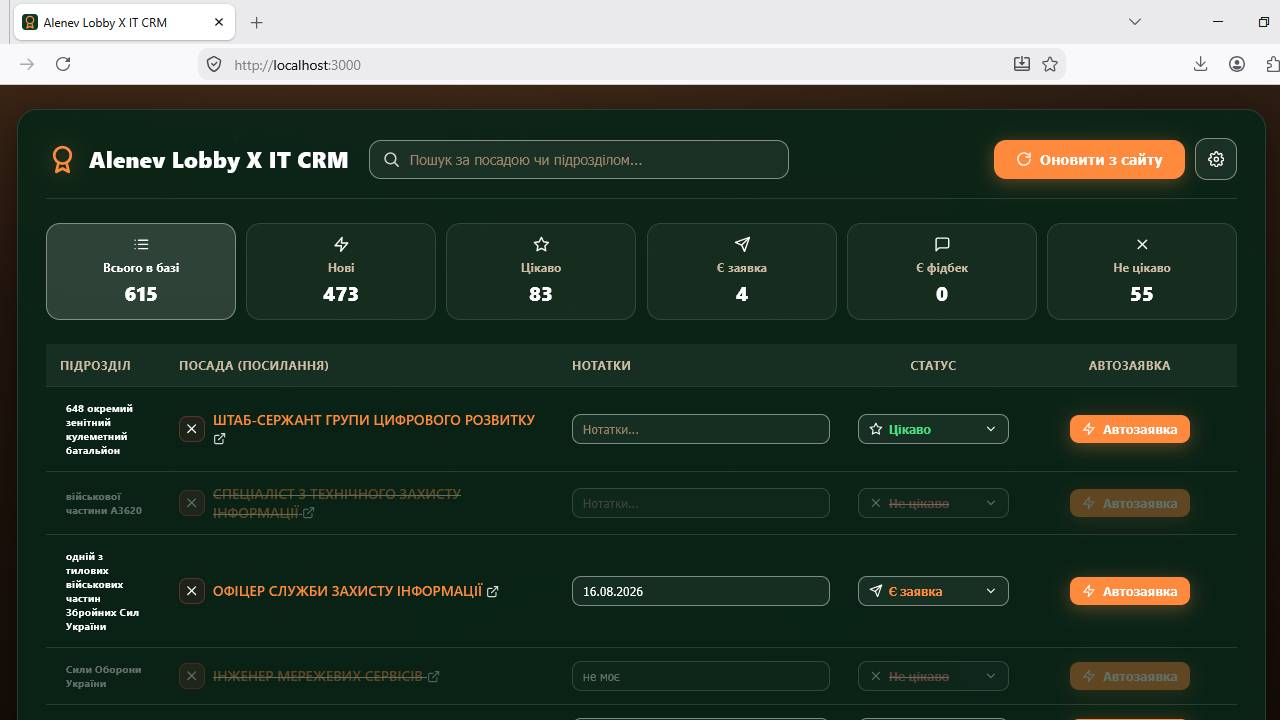
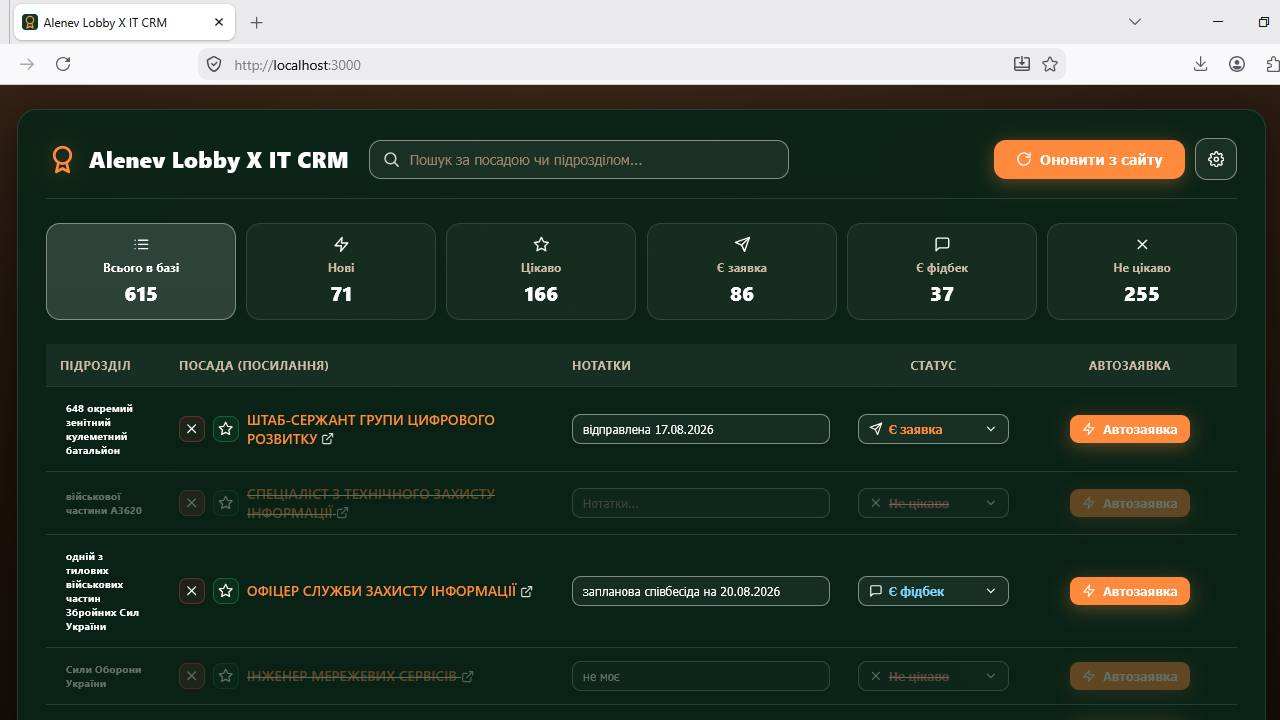
update

diff --git a/solver.js b/solver.js
@@ -90,6 +90,16 @@ async function solveCaptcha(page, { maxAttempts = 5, modelPath, log } = {}) {
         return false;
     }
 
+    // Helper: detect garbled / anti-bot challenge content
+    function isGarbledText(text) {
+        if (!text) return false;
+        const stripped = text.replace(/\s/g, '');
+        if (stripped.length === 0) return false;
+        // Too many non-alpha symbols suggests anti-bot gibberish
+        const nonAlpha = stripped.replace(/[a-zA-Z0-9]/g, '').length;
+        return nonAlpha / stripped.length > 0.4;
+    }
+
     // 1) List all frames for debug
     const allFrames = page.frames().map(f => f.url());
     _log(`reCAPTCHA: знайдено ${allFrames.length} frames`);
@@ -162,9 +172,21 @@ async function solveCaptcha(page, { maxAttempts = 5, modelPath, log } = {}) {
                 break;
             }
             _log('reCAPTCHA: audio button натиснуто (JS)');
-            await delay(3000);
+            await delay(5000);
         } else {
             _log('reCAPTCHA: вже в audio mode');
+        }
+
+        // Detect garbled / anti-bot challenge text in the bframe
+        const bframeText = await bframe.evaluate(() => {
+            return document.body ? document.body.innerText : '';
+        }).catch(() => '');
+        if (isGarbledText(bframeText)) {
+            _log(`reCAPTCHA: виявлено anti-bot контент, чекаю 15с...`);
+            await delay(15000);
+            try { await bframe.click('#recaptcha-reload-button'); } catch (e) { /* ignore */ }
+            await delay(5000);
+            continue;
         }
 
         // Find audio element and get src
@@ -250,7 +272,15 @@ async function solveCaptcha(page, { maxAttempts = 5, modelPath, log } = {}) {
         if (!answer || answer.length < 1) {
             _log('reCAPTCHA: відповідь занадто коротка');
             try { await bframe.click('#recaptcha-reload-button'); } catch (e) { /* ignore */ }
-            await delay(3000);
+            await delay(5000);
+            continue;
+        }
+
+        // Skip clearly garbled transcriptions (likely anti-bot audio)
+        if (isGarbledText(answer)) {
+            _log('reCAPTCHA: транскрипція виглядає як anti-bot шум, пропускаю...');
+            try { await bframe.click('#recaptcha-reload-button'); } catch (e) { /* ignore */ }
+            await delay(8000);
             continue;
         }
 
@@ -292,7 +322,7 @@ async function solveCaptcha(page, { maxAttempts = 5, modelPath, log } = {}) {
 
         _log('reCAPTCHA: не пройшло, новий виклик...');
         try { await bframe.click('#recaptcha-reload-button'); } catch (e) { /* ignore */ }
-        await delay(3000);
+        await delay(5000);
     }
 
     _log(`reCAPTCHA: вичерпано ${maxAttempts} спроб`);

diff --git a/client/src/components/VacancyRow.jsx b/client/src/components/VacancyRow.jsx
@@ -1,6 +1,6 @@
 import React, { useState } from 'react';
 import StatusSelect from './StatusSelect.jsx';
-import { ExternalIcon, XIcon, ZapIcon } from './Icons.jsx';
+import { ExternalIcon, XIcon, ZapIcon, StarIcon } from './Icons.jsx';
 import { updateNotes, updateStatus, runAutofill } from '../api.js';
 
 export default function VacancyRow({ vac, updateVacancy }) {
@@ -69,6 +69,14 @@ export default function VacancyRow({ vac, updateVacancy }) {
                         title={isIgnored ? 'Повернути у статус «Нова»' : 'Позначити як «Не цікаво»'}
                     >
                         <XIcon className="icon" />
+                    </button>
+                    <button
+                        type="button"
+                        className={`star-btn${vac.status === 'interested' ? ' active' : ''}`}
+                        onClick={() => handleStatus(vac.status === 'interested' ? 'new' : 'interested')}
+                        title={vac.status === 'interested' ? 'Повернути у статус «Нова»' : 'Позначити як «Цікаво»'}
+                    >
+                        <StarIcon className="icon" />
                     </button>
                     <a
                         className="vac-link"

diff --git a/client/src/App.jsx b/client/src/App.jsx
@@ -38,12 +38,20 @@ export default function App() {
         es.onopen = () => console.log('[SSE] connected');
         es.onmessage = (ev) => {
             try {
-                const { url, status } = JSON.parse(ev.data);
-                console.log('[SSE] received:', url, status);
-                setVacancies(prev => prev.map(v => (v.url === url ? { ...v, status } : v)));
-            } catch (e) { /* ignore */ }
+                const data = JSON.parse(ev.data);
+                if (!data || !data.url) return;
+                console.log('[SSE] received:', data.url, data.status);
+                setVacancies(prev => prev.map(v => (v.url === data.url ? { ...v, status: data.status } : v)));
+            } catch (e) {
+                console.error('[SSE] parse error:', e, 'raw:', ev.data);
+            }
         };
-        es.onerror = (e) => console.error('[SSE] error', e);
+        es.onerror = (e) => {
+            console.error('[SSE] error:', e);
+            if (es.readyState === EventSource.CLOSED) {
+                console.error('[SSE] connection closed permanently');
+            }
+        };
         return () => es.close();
     }, []);
 

diff --git a/client/src/App.css b/client/src/App.css
@@ -505,6 +505,33 @@ tbody tr.ignored:hover { opacity: 0.6; background: rgba(255, 255, 255, 0.03); }
     border-color: rgba(239, 68, 68, 0.7);
 }
 
+.star-btn {
+    flex-shrink: 0;
+    display: inline-flex;
+    align-items: center;
+    justify-content: center;
+    width: 26px;
+    height: 26px;
+    padding: 0;
+    border-radius: 8px;
+    border: 1px solid rgba(34, 197, 94, 0.35);
+    background: rgba(34, 197, 94, 0.08);
+    color: #4ade80;
+    cursor: pointer;
+    transition: border-color 0.2s ease, background 0.2s ease, transform 0.15s ease, color 0.2s ease;
+}
+
+.star-btn:hover {
+    background: rgba(34, 197, 94, 0.2);
+    border-color: rgba(34, 197, 94, 0.7);
+    transform: translateY(-1px);
+}
+
+.star-btn.active {
+    background: rgba(34, 197, 94, 0.25);
+    border-color: rgba(34, 197, 94, 0.7);
+}
+
 .status-select {
     width: 100%;
     max-width: 170px;

diff --git a/server.js b/server.js
@@ -385,7 +385,9 @@ app.get('/api/events', (req, res) => {
         'Content-Type': 'text/event-stream',
         'Cache-Control': 'no-cache',
         'Connection': 'keep-alive',
+        'X-Accel-Buffering': 'no',
     });
+    if (req.socket) req.socket.setNoDelay(true);
     res.flushHeaders();
     res.write(':\n\n');
     const onStatus = ({ url, status }) => {
@@ -393,8 +395,12 @@ app.get('/api/events', (req, res) => {
         res.write(`data: ${JSON.stringify({ url, status })}\n\n`);
     };
     db.bus.on('statusChanged', onStatus);
+    const keepalive = setInterval(() => {
+        try { res.write(': ping\n\n'); } catch (e) { /* ignore */ }
+    }, 30000);
     req.on('close', () => {
         console.log('[SSE] клієнт відключився');
+        clearInterval(keepalive);
         db.bus.off('statusChanged', onStatus);
     });
 });

diff --git a/db.js b/db.js
@@ -147,8 +147,8 @@ async function queryRun(sql, params = []) {
         const result = ensureLocal().prepare(sql).run(...params);
         return { changes: Number(result.changes) };
     }
-    const { rowCount } = await turso().execute(sql, params);
-    return { changes: rowCount };
+    const { rowsAffected } = await turso().execute(sql, params);
+    return { changes: rowsAffected };
 }
 
 // ---------- Одноразова міграція старого db.json (лише локально) ----------

diff --git a/README.md b/README.md
@@ -136,7 +136,7 @@ npm start
 4. У CRM натисніть шестірню **настройок** у шапці.
 5. Оберіть картку **«Turso (хмарна)»**, вставте URL і токен, натисніть **«Зберегти»**.
 
-> {{ Скриншот 03: модалка налаштувань, вибрано «Turso (хмарна)», у полях введені URL `libsql://...turso.io` і токен }}
+![Project Screenshot](screenshots/03-main.jpg)
 
 Сервер перевірить підключення, створить таблиці в хмарі та переключиться на неї. Тепер CRM читає/пише у хмарну базу — дані доступні з будь-якого пристрою, де вказано ті самі URL і токен.
 
@@ -153,7 +153,7 @@ npm start
 - **Нічого не видаляється** — це об'єднання (union), тож втрата даних виключена.
 - Після завершення показується звіт: скільки вакансій і статусів усього та скільки оновлено.
 
-> {{ Скриншот 04: модалка налаштувань із зеленою смужкою успіху «Синхронізацію завершено: вакансій 615, оновлено 0...» }}
+![Project Screenshot](screenshots/04-main.jpg)
 
 Типовий сценарій: працюєте вдома на локальній БД → натискаєте «Синхронізувати» → пізніше на іншому пристрої теж натискаєте «Синхронізувати» — і обидві бази мають однакові дані.
 
@@ -183,6 +183,8 @@ npm start
 - **Резюме**: текст опису досвіду та мотивації, файл з CV/резюме, додатковий файл.
 - **Згоди**: розсилка від Lobby X (необов'язково) та Політика конфіденційності (обов'язково).
 
+![Project Screenshot](screenshots/06-main.jpg)
+
 ### Завантаження файлів
 
 - Файли вибираються через звичайний діалог вибору файлів (підтримуються `.pdf, .doc, .docx, .pages, .jpg, .jpeg, .png, .rtf`, до 10 МБ).
@@ -209,7 +211,7 @@ npm start
 5. **Ігноровані вакансії** автоматично зменшують яскравість (35% прозорість), щоб не відволікати.
 6. **Подавайте автозаявки**: заповніть шаблон у «Налаштуваннях → Дані автозаявки» і натискайте «Автозаявка» біля потрібної вакансії (деталі — у розділі [Автозаявка](#автозаявка)).
 
-> {{ Скриншот 05: таблиця вакансій, відфільтрована за статусом «Подав заявку» }}
+![Project Screenshot](screenshots/05-main.jpg)
 
 ## API-ендпоінти
 
